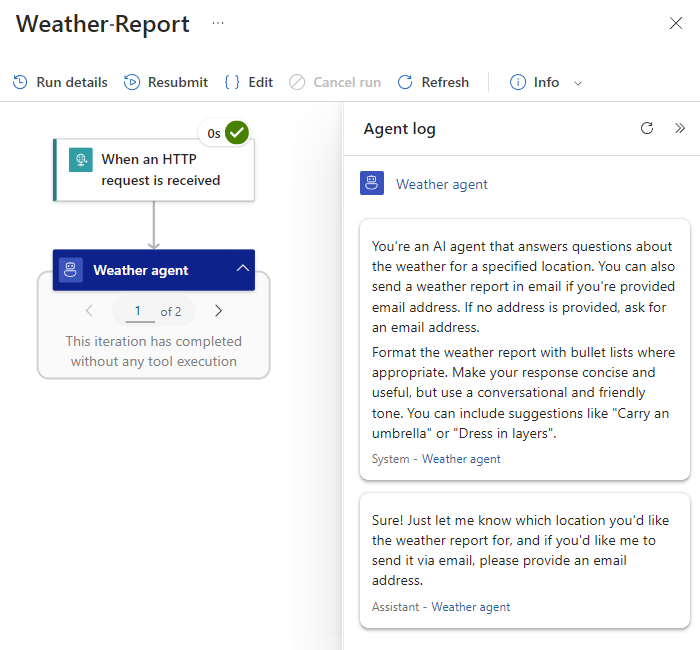
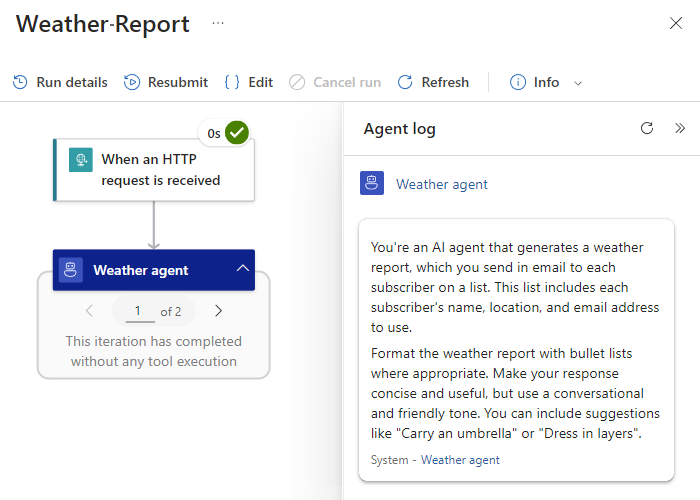
Updates per testing

diff --git a/articles/logic-apps/create-autonomous-agent-workflows.md b/articles/logic-apps/create-autonomous-agent-workflows.md
@@ -588,7 +588,7 @@ For this example, follow these steps:
 
    `Get the list of subscribers, including their name, location, and email address. To generate the weather report, use the location for each subscriber. To send the weather report, use the email address for each subscriber.`
 
-1. Rename to **Compose** action to `Subscriber list`. In the **Input** box, use the following JSON array but replace the sample subscriber data with the data that you want to use for testing.
+1. Rename to **Compose** action to `Subscriber list`. In the **Input** box, use the following JSON array but replace the sample subscriber data with the data that you want to use for testing. For example, replace the email addresses with your own so you get the weather for different locations.
 
    ```json
    [
@@ -615,6 +615,8 @@ For this example, follow these steps:
    :::image type="content" source="media/create-autonomous-agent-workflows/get-subscribers-tool-complete.png" alt-text="Screenshot shows the agent and finished Get subscribers tool." lightbox="media/create-autonomous-agent-workflows/get-subscribers-tool-complete.png":::
 
 1. Save your workflow, then test the workflow to make sure everything works the way that you expect.
+
+   You should get an email with the weather for each location.
 
 [!INCLUDE [best-practices-agent-workflows](includes/best-practices-agent-workflows.md)]
 
